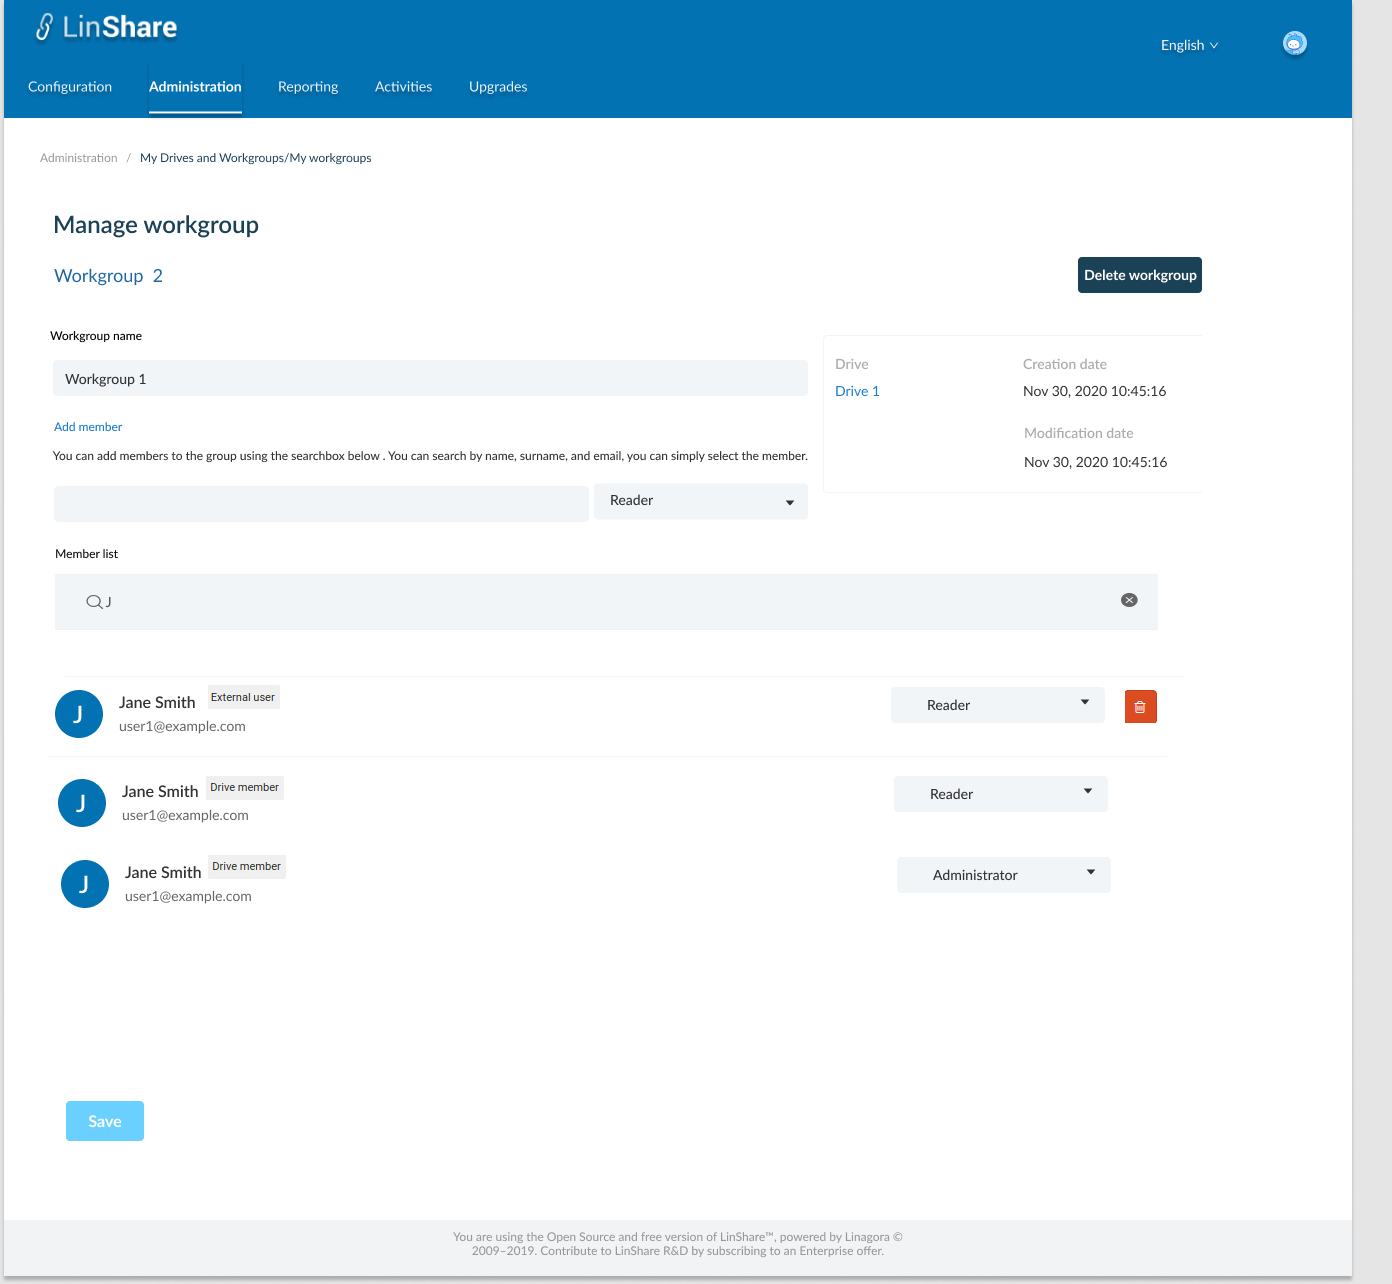
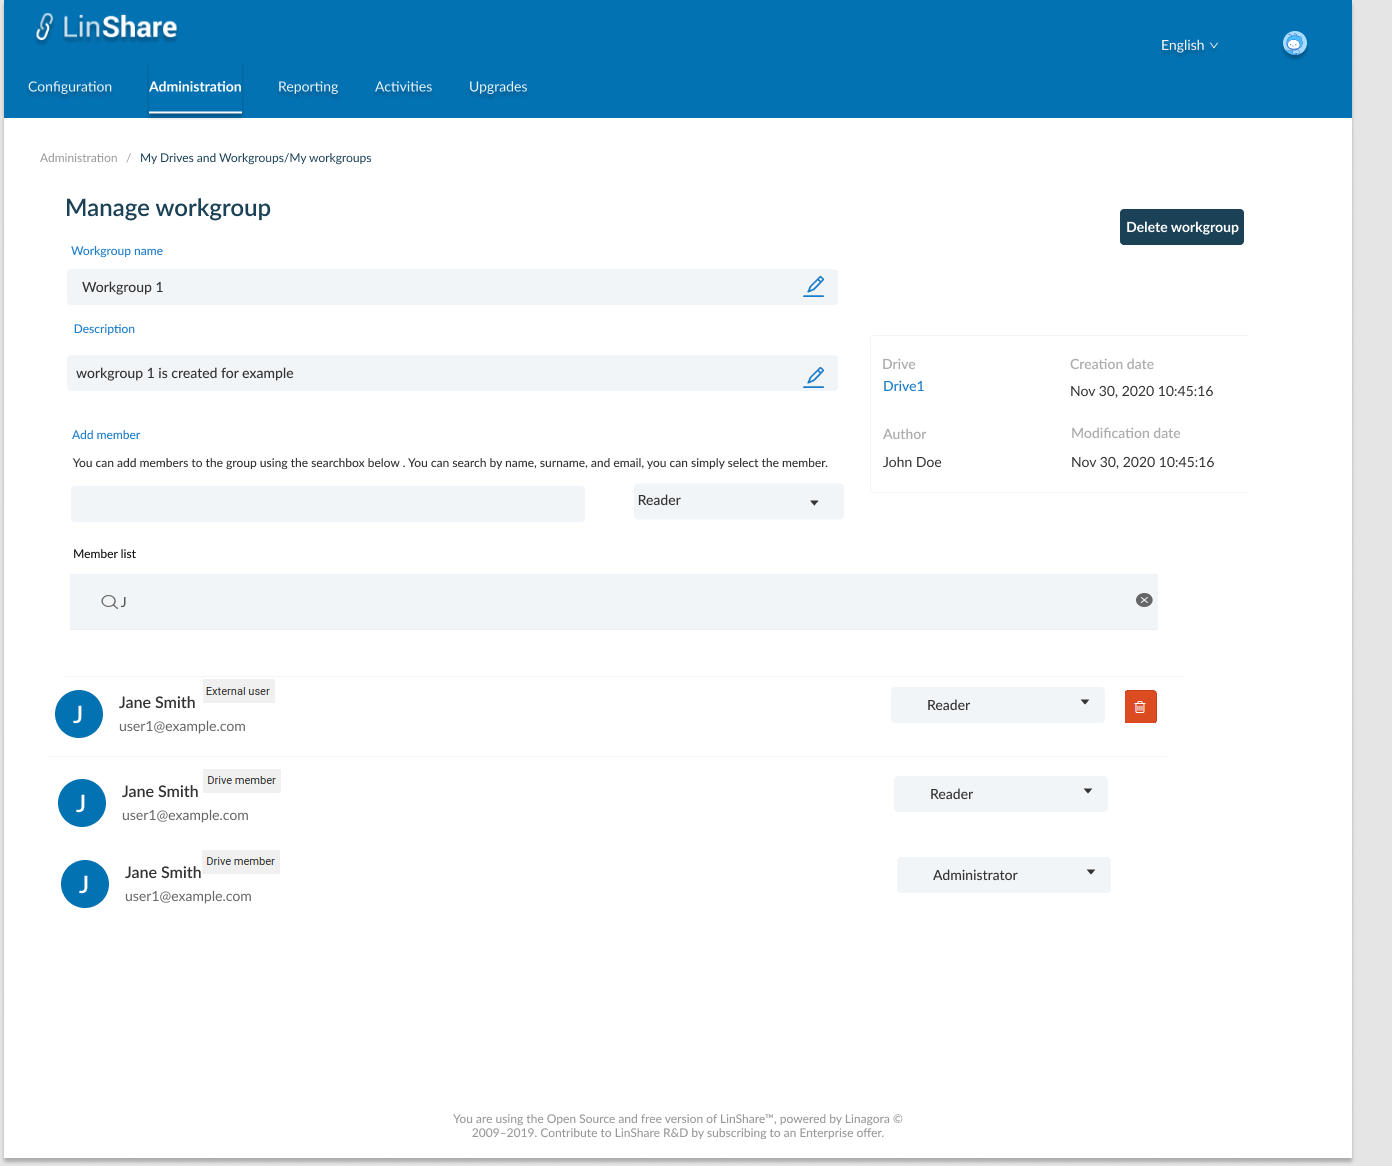
Update documentation/EN/epics/new-admin-portal/mockups/3.1.png, documentation/EN/epics/new-admin-portal/mockups/3.2.png, documentation/EN/epics/new-admin-portal/mockups/3.3.png, documentation/EN/epics/new-admin-portal/story-3-admin-manage-workgroup.md files

diff --git a/documentation/EN/epics/new-admin-portal/story-3-admin-manage-workgroup.md b/documentation/EN/epics/new-admin-portal/story-3-admin-manage-workgroup.md
@@ -33,8 +33,10 @@
       - Drive: The link to parent Drive that contain current workgroup. I can click on this link to go to Manage drive . If this workgroup is standalone, the text "None" is displayed.
       - Creation date
       - Modification date 
+      - Author: Creator of workgroup
    - On the left part i can see the editable fields including:
-      - Worgkroup name: Text field. This field cannot be blank or contains special characters. When click Save button, if the workgroup name is invalid, i can see an error message.
+      - Worgkroup name: Text field. This field cannot be blank or contains special characters. When click icon Edit, i can change the name and click Save icon, if the workgroup name is invalid, i can see an error message.
+      - Description: Display workgroup's desctiption. When i click on icon Edit, i can update the field and click save icon. 
    
 **UC2.Manage member list of a standalone workgroup**
 - In Manage workgroup screen, i can see the list of user: 
